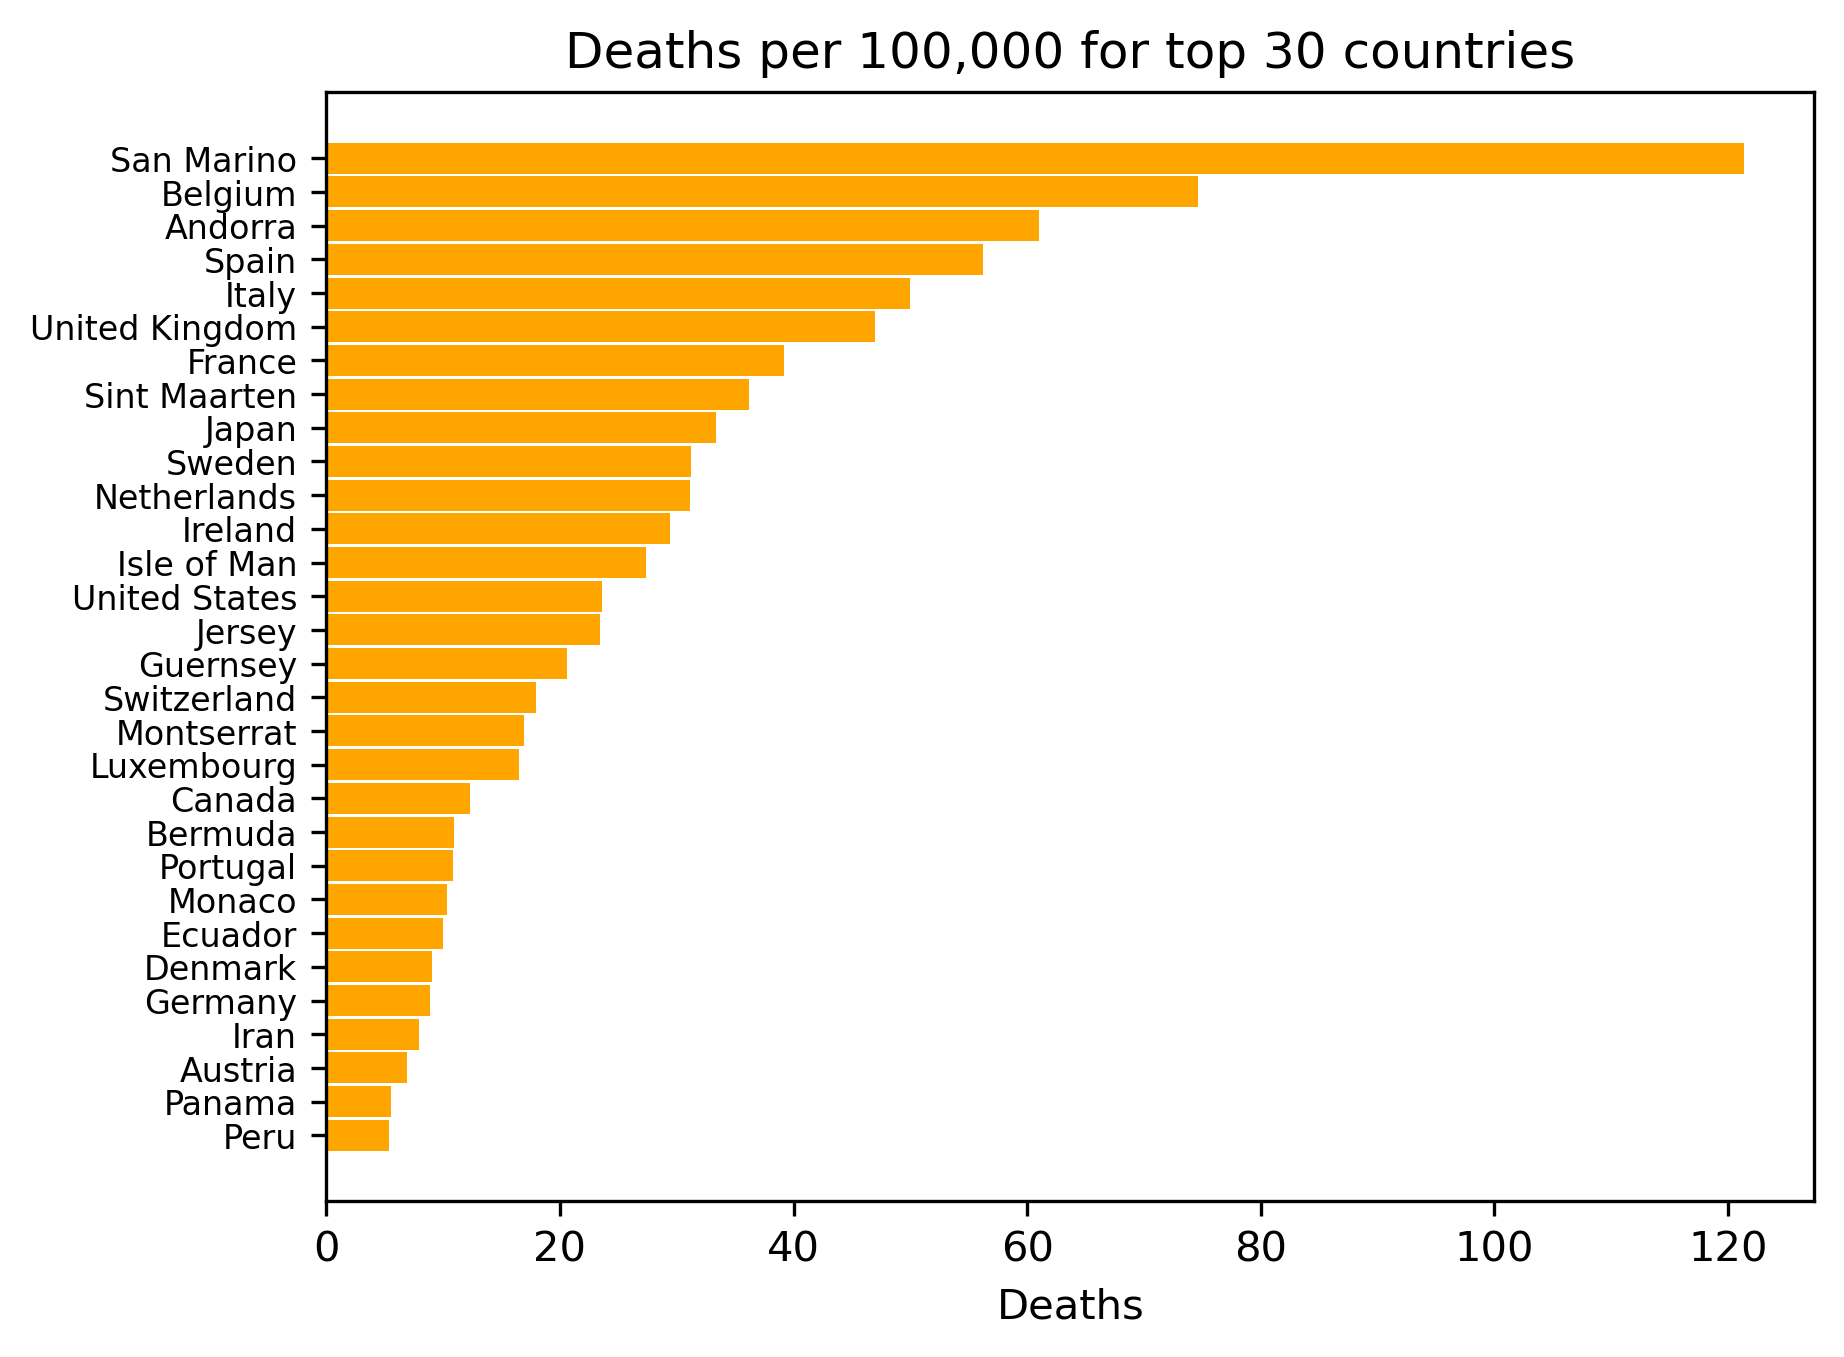
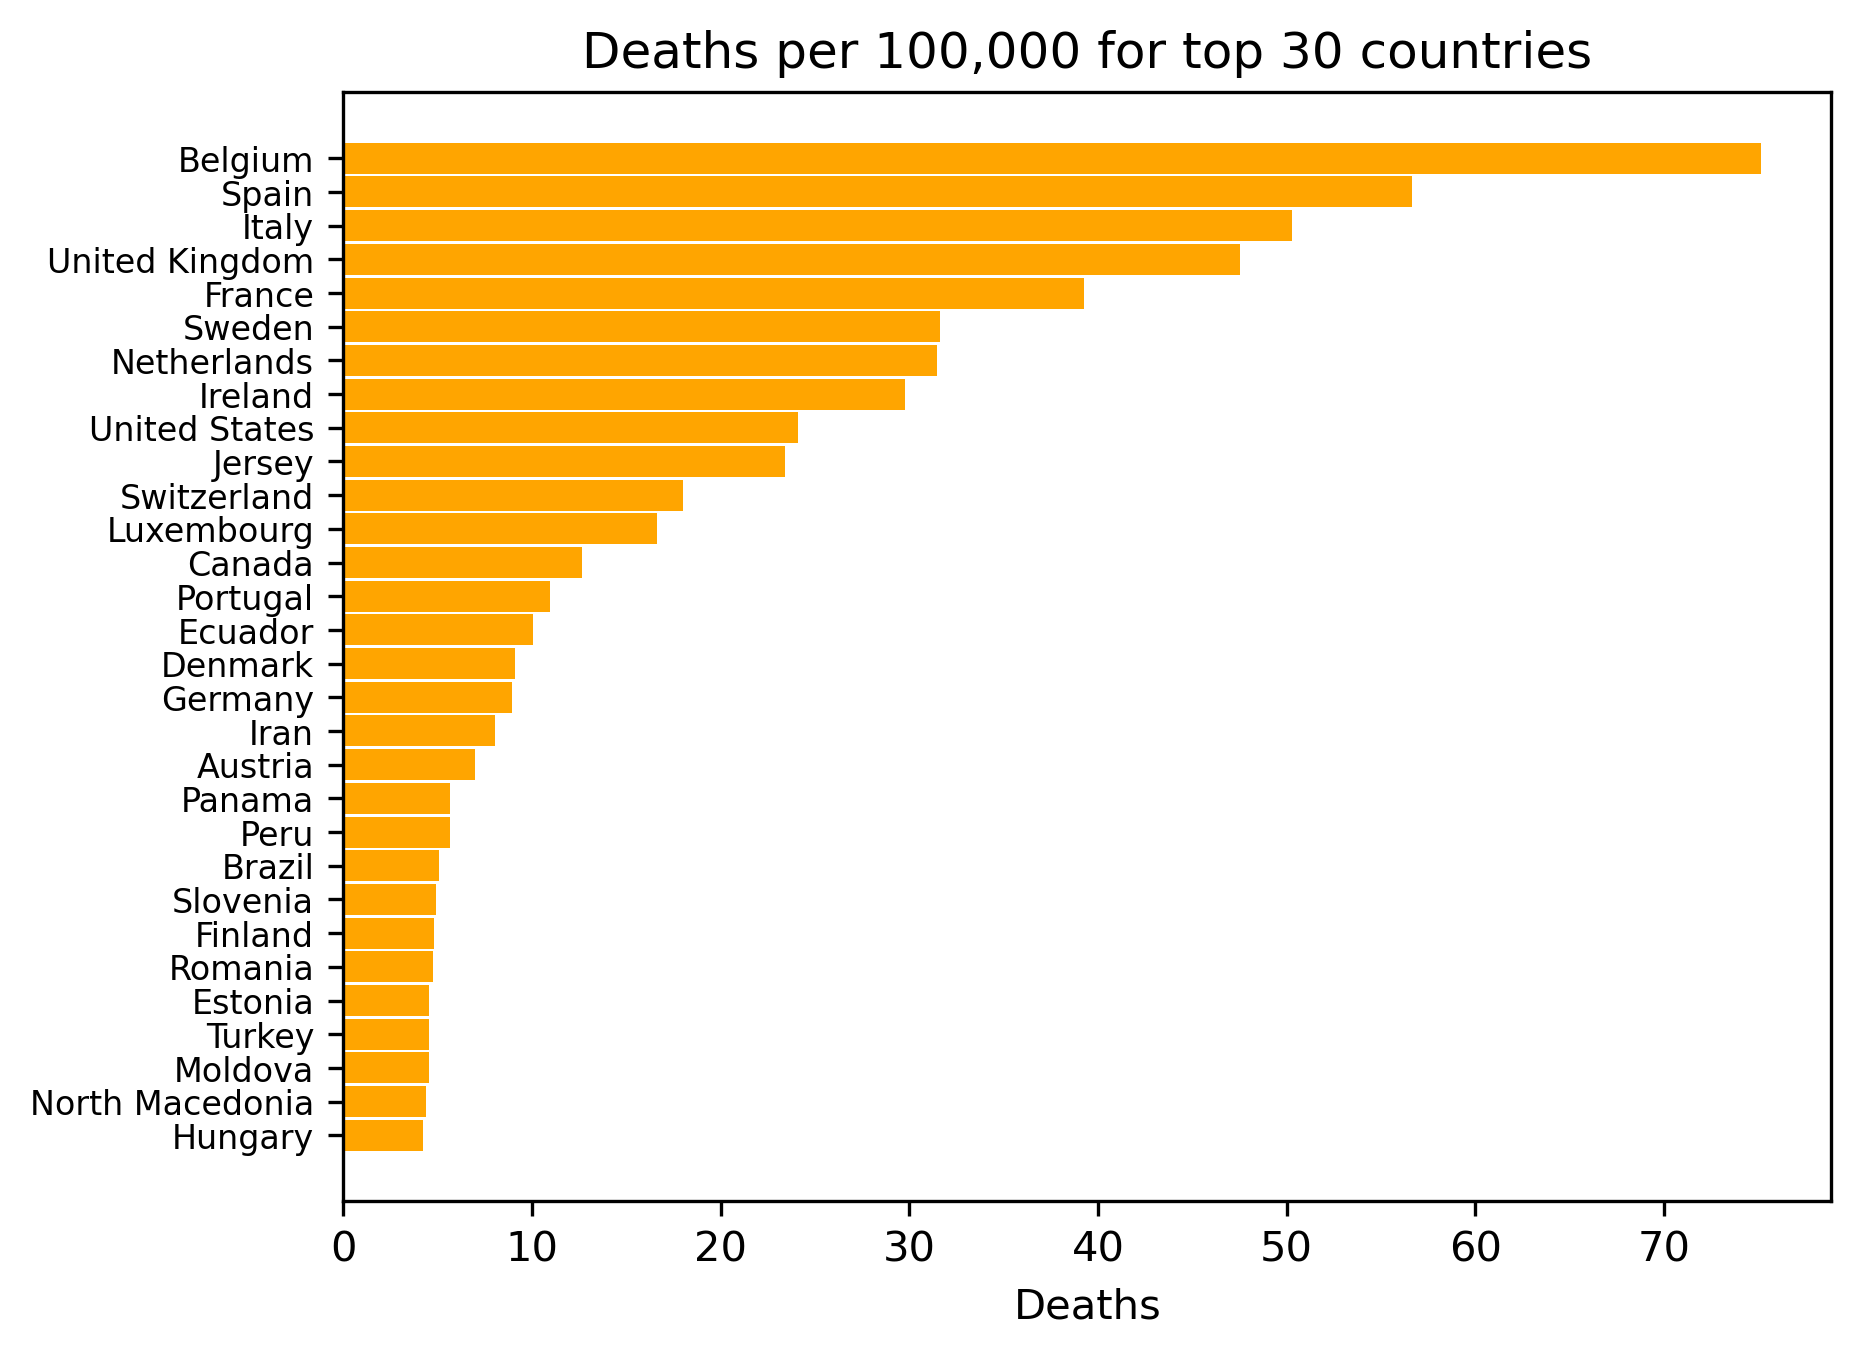
Changes as follows * Bar chart doesn't display countries with a population less than 100,000 * README updated.

diff --git a/main.py b/main.py
@@ -17,8 +17,9 @@ first_date = dt.date(2020, 3, 1)
 
 def main():
     df = download_data()
-    # plot_by_country(df=df, ctype='deaths')
-    death_rate_chart(df=df, countries=get_all_countries(df), ctype='deaths', num_to_display=30)
+    countries = get_all_countries(df, min_population=100000)
+    plot_by_country(df=df, ctype='deaths')
+    death_rate_chart(df=df, countries=countries, ctype='deaths', num_to_display=30)
 
 ## Visualisation
 
@@ -101,18 +102,20 @@ def clean_labels(labels):
     return results
 
 def download_data():
-    # covid_raw_pd = pd.read_csv('https://opendata.ecdc.europa.eu/covid19/casedistribution/csv')
-    covid_raw_pd = pd.read_csv('/Users/daniel/Downloads/cv.csv')
+    covid_raw_pd = pd.read_csv('https://opendata.ecdc.europa.eu/covid19/casedistribution/csv')
+    # covid_raw_pd = pd.read_csv('/Users/daniel/Downloads/cv.csv')
     cols_to_drop = ['day', 'month', 'year', 'geoId', 'countryterritoryCode', 'continentExp']
     covid_raw_pd = covid_raw_pd[covid_raw_pd.columns.drop(cols_to_drop)]
     covid_raw_pd['dateRep'] = pd.to_datetime(covid_raw_pd['dateRep'], format=r'%d/%m/%Y')
     return covid_raw_pd
 
-def get_all_countries(df):
-    return df.loc[:, 'countriesAndTerritories'].drop_duplicates().to_list()
+def get_all_countries(df, min_population=None):
+    if isinstance(min_population, int):
+        df = df[df.popData2018 >= min_population]
+    return df.loc[:, 'countriesAndTerritories'].drop_duplicates()
 
 def get_eu_countries():
-    return pd.Series(['Austria', 'Belgium', 'Bulgaria', 'Croatia', 'Cyprus', 'Czechia', 'Denmark', 'Estonia', 'France', 'Germany', 'Greece', 'Hungary', 'Ireland', 'Italy', 'Latvia', 'Lithuania', 'Luxembourg', 'Malta', 'Netherlands', 'Poland', 'Portugal', 'Romania', 'Slovakia', 'Slovenia', 'Spain', 'Sweden', 'United_Kingdom'])
+    return pd.Series(['Austria', 'Belgium', 'Bulgaria', 'Croatia', 'Cyprus', 'Czechia', 'Denmark', 'Estonia', 'France', 'Germany', 'Greece', 'Hungary', 'Ireland', 'Italy', 'Latvia', 'Lithuania', 'Luxembourg', 'Malta', 'Netherlands', 'Poland', 'Portugal', 'Romania', 'Slovakia', 'Slovenia', 'Spain', 'Sweden'])
 
 def country_series(df, country, ctype, cumsum=False, log=False):
     country_df = df.loc[df['countriesAndTerritories']  == country]

diff --git a/README.md b/README.md
@@ -2,7 +2,7 @@
 
 ## Introduction
 
-This is a small personal project to visualise data about the Coronavirus from the [EU Open Data Portal](https://data.europa.eu/euodp/en/data/). Requires Pandas, Numpy, Matplotlib, Pillow, Cartopy, and Scikit-Learn.
+This is a small personal project to visualise data about the Coronavirus from the [EU Open Data Portal](https://data.europa.eu/euodp/en/data/). Requires Pandas, Numpy, Matplotlib, Pillow, Cartopy, and Scikit-Learn. Tested on _macOS_, but should be cross-platform.
 
 ## Example
 
